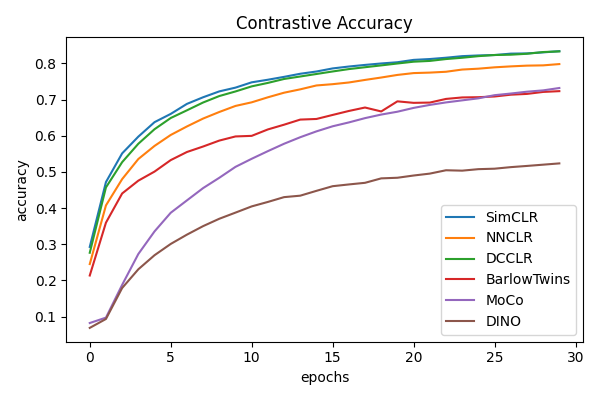
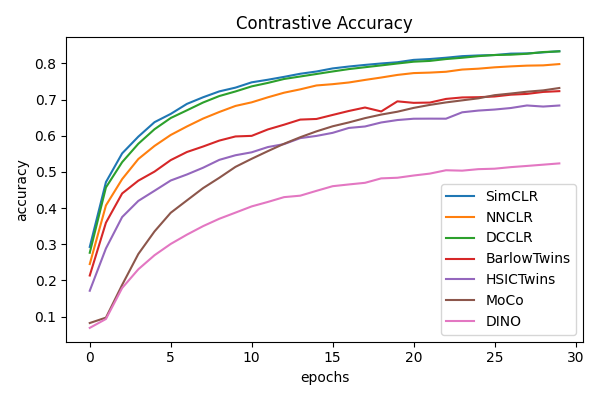
HSICTwins added

diff --git a/algorithms.py b/algorithms.py
@@ -208,7 +208,65 @@ class BarlowTwins(ContrastiveModel):
         cross_correlation = (
             tf.matmul(projections_1, projections_2, transpose_a=True) / batch_size
         )
-        squared_errors = (tf.eye(feature_dim) - cross_correlation) ** 2
+        target_cross_correlation = tf.eye(feature_dim)
+        squared_errors = (target_cross_correlation - cross_correlation) ** 2
+
+        # invariance loss = average diagonal error
+        # redundancy reduction loss = average off-diagonal error
+        invariance_loss = (
+            tf.reduce_sum(squared_errors * tf.eye(feature_dim)) / feature_dim
+        )
+        redundancy_reduction_loss = tf.reduce_sum(
+            squared_errors * (1 - tf.eye(feature_dim))
+        ) / (feature_dim * (feature_dim - 1))
+        return (
+            invariance_loss
+            + self.redundancy_reduction_weight * redundancy_reduction_loss
+        )
+
+
+class HSICTwins(ContrastiveModel):
+    def __init__(
+        self,
+        contrastive_augmenter,
+        classification_augmenter,
+        encoder,
+        projection_head,
+        linear_probe,
+        redundancy_reduction_weight,
+    ):
+        super().__init__(
+            contrastive_augmenter,
+            classification_augmenter,
+            encoder,
+            projection_head,
+            linear_probe,
+        )
+        # weighting coefficient between the two loss components
+        self.redundancy_reduction_weight = redundancy_reduction_weight
+        # its value differs from the paper, because the loss implementation has been
+        # changed to be invariant to the encoder output dimensions (feature dim)
+
+    def contrastive_loss(self, projections_1, projections_2):
+        # a modified BarlowTwins loss, derived from Hilbert-Schmidt Independence
+        # Criterion maximization, the only difference is the target cross correlation
+
+        projections_1 = (
+            projections_1 - tf.reduce_mean(projections_1, axis=0)
+        ) / tf.math.reduce_std(projections_1, axis=0)
+        projections_2 = (
+            projections_2 - tf.reduce_mean(projections_2, axis=0)
+        ) / tf.math.reduce_std(projections_2, axis=0)
+
+        # the cross correlation of image representations should be 1 along the diagonal
+        # and -1 everywhere else
+        batch_size = tf.shape(projections_1, out_type=tf.float32)[0]
+        feature_dim = tf.shape(projections_1, out_type=tf.float32)[1]
+        cross_correlation = (
+            tf.matmul(projections_1, projections_2, transpose_a=True) / batch_size
+        )
+        target_cross_correlation = 2.0 * tf.eye(feature_dim) - 1.0
+        squared_errors = (target_cross_correlation - cross_correlation) ** 2
 
         # invariance loss = average diagonal error
         # redundancy reduction loss = average off-diagonal error

diff --git a/train.py b/train.py
@@ -10,7 +10,7 @@ from tensorflow.keras.layers.experimental import preprocessing
 
 from dataset import prepare_dataset
 from augmentations import RandomResizedCrop, RandomColorJitter
-from algorithms import SimCLR, NNCLR, DCCLR, BarlowTwins, MoCo, DINO
+from algorithms import SimCLR, NNCLR, DCCLR, BarlowTwins, HSICTwins, MoCo, DINO
 
 tf.get_logger().setLevel("WARN")  # suppress info-level logs
 
@@ -25,6 +25,7 @@ hyperparams = {
     NNCLR: {"temperature": 0.1, "queue_size": 10000},
     DCCLR: {"temperature": 0.1},
     BarlowTwins: {"redundancy_reduction_weight": 10.0},
+    HSICTwins: {"redundancy_reduction_weight": 3.0},
     MoCo: {"momentum_coeff": 0.99, "temperature": 0.1, "queue_size": 10000},
     DINO: {"momentum_coeff": 0.9, "temperature": 0.1, "sharpening": 0.5},
 }

diff --git a/README.md b/README.md
@@ -1,10 +1,11 @@
 # Self-supervised Contrastive Learning for Image Classification with Keras
 
-This repository contains an implementation for 6 self-supervised instance-level (image-level) contrastive learning methods:
+This repository contains an implementation for 7 self-supervised instance-level (image-level) contrastive learning methods:
 - [SimCLR](https://arxiv.org/abs/2002.05709)
 - [NNCLR](https://arxiv.org/abs/2104.14548)
 - [Decoupled Contrastive Learning](https://arxiv.org/abs/2110.06848) (named DCCLR in this repository)
 - [BarlowTwins](https://arxiv.org/abs/2103.03230)
+- [Hilbert-Schmidt Independence Criterion Maximization](https://arxiv.org/abs/2104.13712) (named HSICTwins in this repository)
 - [MoCo](https://arxiv.org/abs/1911.05722) ([v2](https://arxiv.org/abs/2003.04297), [v3](https://arxiv.org/abs/2104.02057))
 - [DINO](https://arxiv.org/abs/2104.14294) (negative-free)
 
